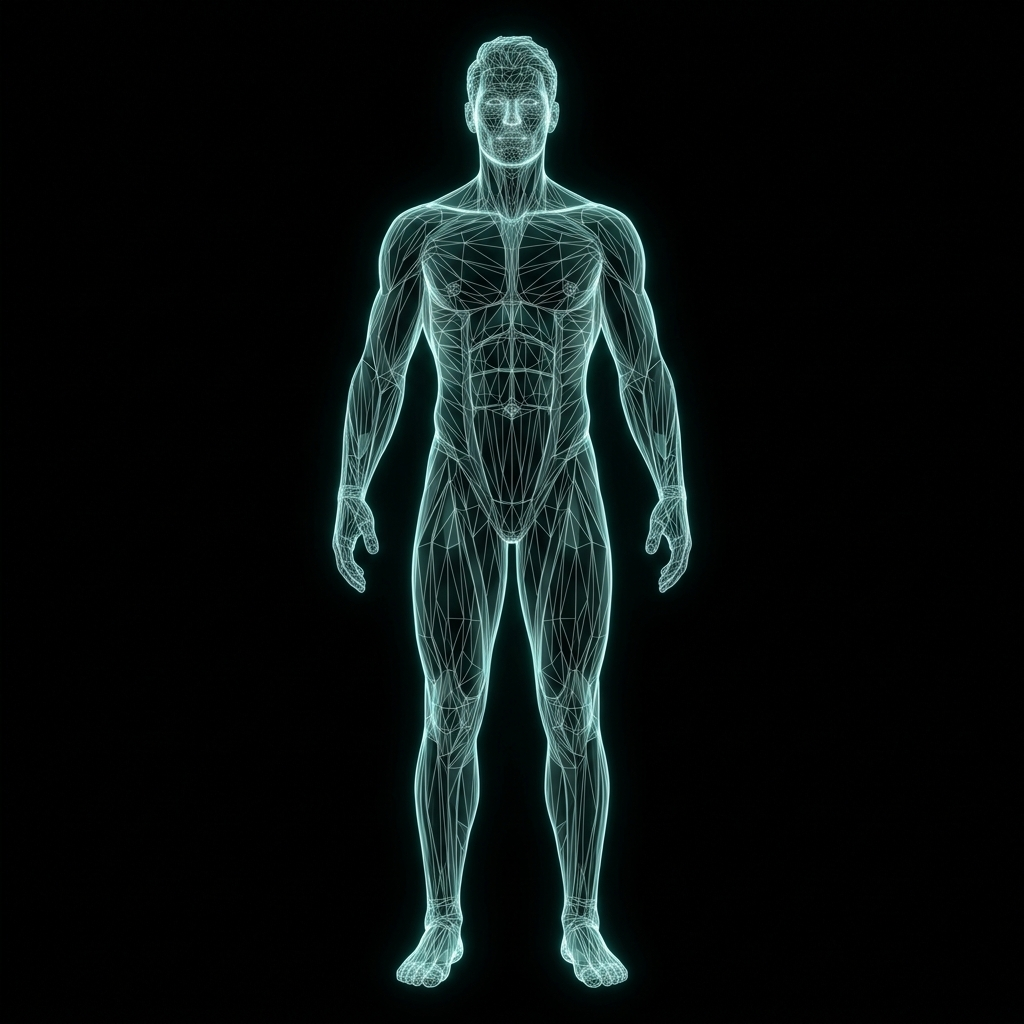
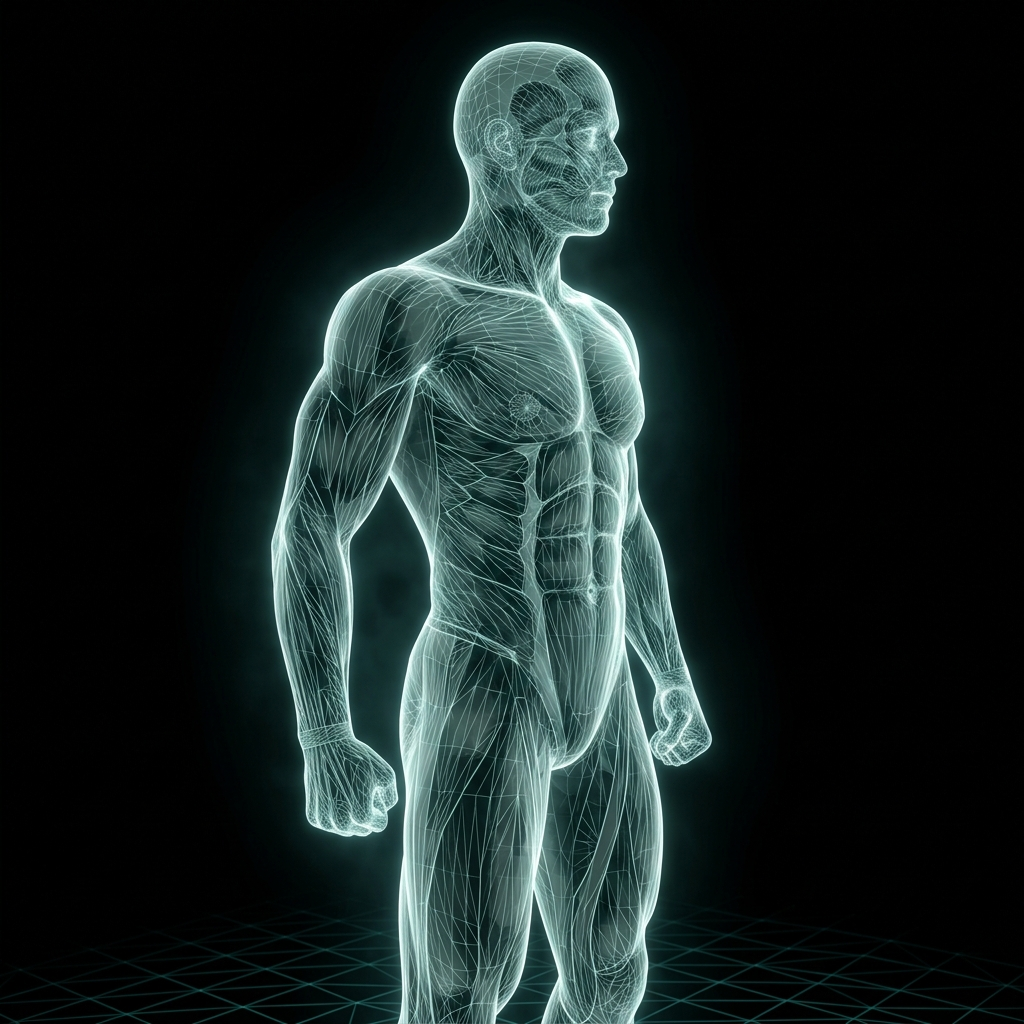
feat: implement 3/4 view wireframe assets for readiness widget

Changed region(s): [[0.0625, 0.0312, 0.9062, 1.0], [0.9375, 0.9688, 0.9688, 1.0]]

diff --git a/src/components/pages/DashboardPage.jsx b/src/components/pages/DashboardPage.jsx
@@ -529,7 +529,7 @@ export default function DashboardPage() {
             style={{
               position: 'absolute',
               top: '95%', left: '50%',
-              transform: 'perspective(1000px) translate(-50%, -50%) scaleY(-1) rotateY(30deg)',
+              transform: `translate(-50%, -50%) scaleY(-1) ${user?.gender === 'female' ? 'scale(1.15)' : ''}`,
               width: '135%',
               maxWidth: 800,
               height: 'auto',
@@ -550,7 +550,7 @@ export default function DashboardPage() {
             style={{
               position: 'absolute',
               top: '45%', left: '50%',
-              transform: 'perspective(1000px) translate(-50%, -50%) rotateY(30deg)',
+              transform: `translate(-50%, -50%) ${user?.gender === 'female' ? 'scale(1.15)' : ''}`,
               width: '135%',
               maxWidth: 800,
               height: 'auto',

diff --git a/TODO-body-wireframe-readiness.md b/TODO-body-wireframe-readiness.md
@@ -136,9 +136,28 @@ The attached reference image (`image.png`) shows a **Daily Readiness** card with
       → Use `transform: perspective(1000px) translate(-50%, -50%) rotateY(30deg)` on the main body
       → Use `transform: perspective(1000px) translate(-50%, -50%) scaleY(-1) rotateY(30deg)` on the reflective floor
       → This ensures the image actually achieves a 3D depth-rotation rather than just squashing horizontally (which happens when `rotateY` is used without `perspective`).
+### Priority 7: Correct 3/4 View — Regenerate Asset (NOT CSS transform)
+
+**Root Cause:** CSS `rotateY()` on a flat 2D PNG does NOT create a true 3D rotation. It merely squashes/compresses the image horizontally like a horizontal skew. The reference shows a **3D mesh model rendered from a 3/4 right-back angle** — this is baked into the image itself.
+
+**What the reference image shows:**
+- The body is NOT facing straight forward
+- The figure is rotated ~30-45° so you see the RIGHT side of the body (chest-right, left shoulder blade partially visible)
+- The left arm hangs further back in perspective, the right arm is closer to the viewer
+- This is a genuine 3D perspective render, not a CSS 2D transform
+
+**Correct Solution:**
+- [x] **Remove** all `rotateY` and `perspective` CSS transforms from the wireframe `<img>` elements in `DashboardPage.jsx` — revert to simple `translate(-50%, -50%)`
+- [x] **Regenerate** `public/muscles/body-wireframe.png` using AI image generation with the correct camera angle prompt:
+      → Prompt: *"3D polygon-mesh wireframe of an athletic male human figure, 3/4 view from front-right, rotated about 30-40 degrees so right side of chest faces the viewer, pure black background, bright glowing teal-grey wireframe lines, futuristic medical scan style, transparent-looking mesh"*
+- [x] **Regenerate** `public/muscles/female/female-body-wireframe.png` with matching prompt but female anatomy
+- [x] The correct `transform` for the main image after new asset: `translate(-50%, -50%)` (no rotation needed — angle is baked in)
+- [x] The correct `transform` for the reflection: `translate(-50%, -50%) scaleY(-1)` (no rotation needed)
+
+**Why this approach is correct:**
+The `mix-blend-mode: screen` trick relies on the asset having a pure black background so dark areas become transparent. As long as we generate the new asset on a pure black background, the screen blend will still work perfectly after the swap.
 
 
----
 
 ## 🔑 The `mixBlendMode: 'screen'` Key
 
